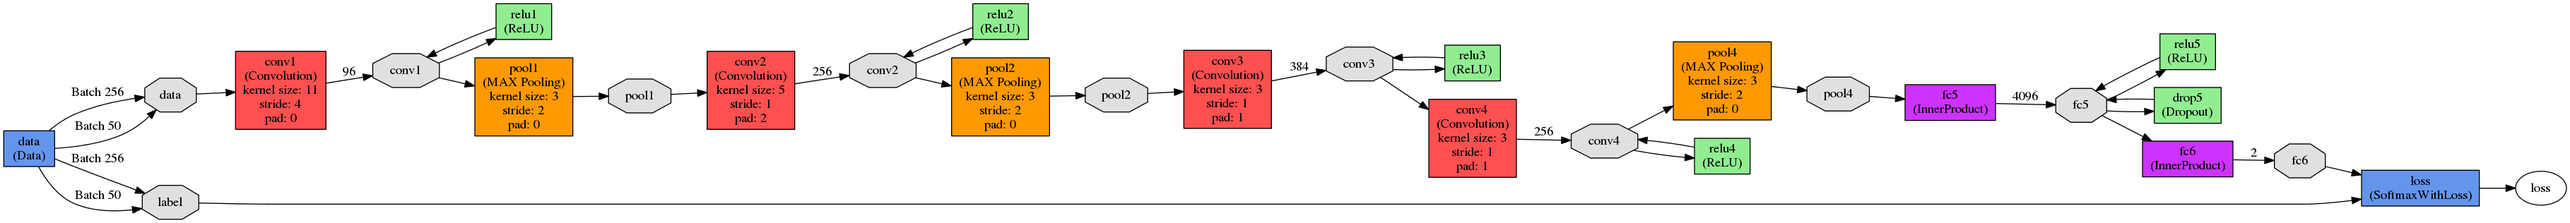
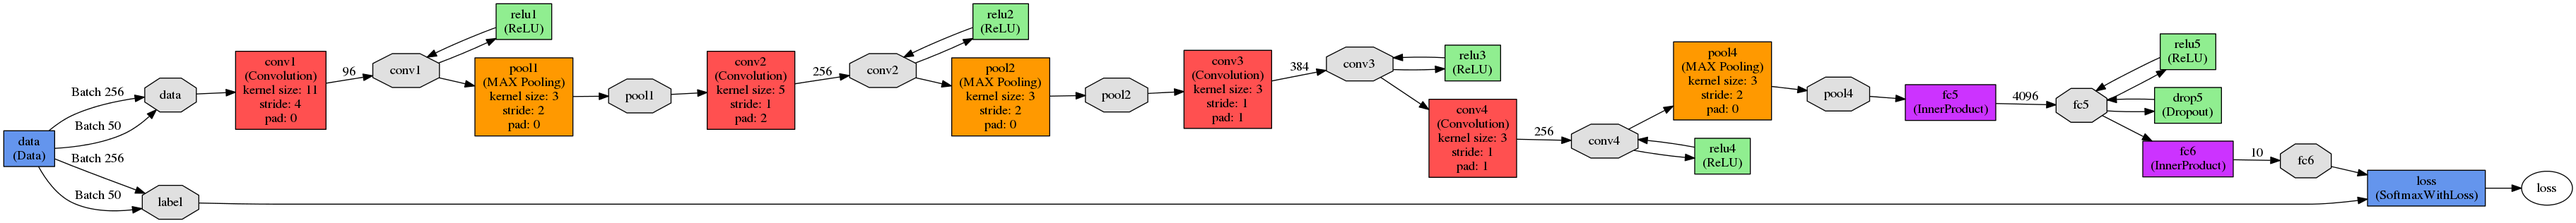
Some updating for cifar10

diff --git a/Code/cifar10/code/net1_create_lmdb.py b/Code/cifar10/code/net1_create_lmdb.py
@@ -42,12 +42,11 @@ def make_datum(img, label, no_filters):
         label=label,
         data=np.rollaxis(img, 2).tostring())
 
-def create_lmdb(input_path, output_path, image_width, image_height, no_filters):
-
+def create_lmdb(labels_path, input_path, output_path, image_width, image_height, no_filters):
+    labels = np.load(labels_path)
     os.system('rm -rf  ' + output_path)
 
     data = [img for img in glob.glob(input_path)]
-    np.save('../comms/image_data', data)
 
     #Shuffle data
     random.shuffle(data)
@@ -57,15 +56,15 @@ def create_lmdb(input_path, output_path, image_width, image_height, no_filters):
         for in_idx, img_path in enumerate(data):
             if in_idx %  6 == 0:
                 continue
-	        img = cv2.imread(img_path, cv2.IMREAD_COLOR)
-	        img = transform_img(img, image_width, image_height)
-            if 'cat' in img_path:
-                label = 0
-            else:
-                label = 1
+	    img = cv2.imread(img_path, cv2.IMREAD_COLOR)
+	    img = transform_img(img, image_width, image_height)
+            
+	    img_number = img_path.split("img")[1].split(".")[0]
+	    label = labels[int(img_number)][0]
             datum = make_datum(img, label, no_filters)
             in_txn.put('{:0>5d}'.format(in_idx), datum.SerializeToString())
-            print '{:0>5d}'.format(in_idx) + ':' + img_path
+            if in_idx%500==0: 
+		print '{:0>5d}'.format(in_idx) + ':' + img_path
     in_db.close()
 
     print '\nFinished processing all images'
@@ -73,8 +72,8 @@ def create_lmdb(input_path, output_path, image_width, image_height, no_filters):
     return 0
 
 #Size of images
-image_width = 227   
-image_height = 227
+image_width = 32   
+image_height = 32
 no_filters = 3
-create_lmdb("../input/train/*jpg","../input/net1_train_lmdb", image_width, image_height, no_filters)
-create_lmdb("../input/test1/*jpg","../input/net1_validation_lmdb", image_width, image_height, no_filters)
+create_lmdb("../input/train/labels.npy","../input/train/*jpg","../input/net1_train_lmdb", image_width, image_height, no_filters)
+create_lmdb("../input/test/labels.npy","../input/test/*jpg","../input/net1_test_lmdb", image_width, image_height, no_filters)
